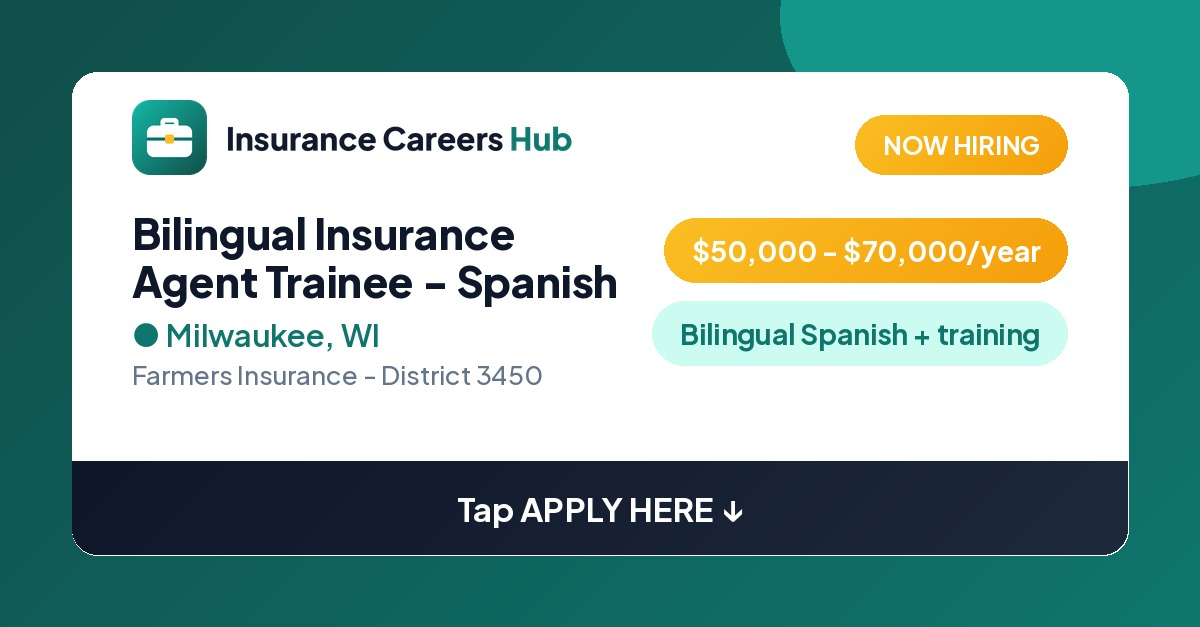
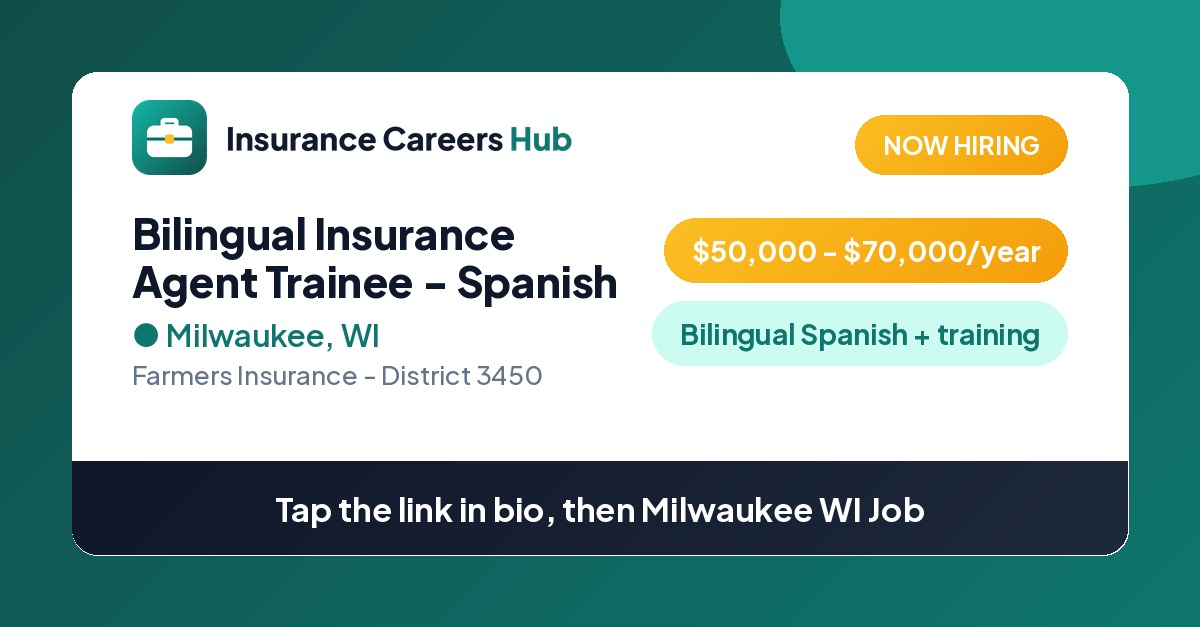
ICH link-in-bio + job cards 2026-11-09

Changed region(s): [[0.2158, 0.7879, 0.7708, 0.8485]]

diff --git a/j/round-rock-tx/index.html b/j/round-rock-tx/index.html
@@ -1,0 +1,48 @@
+<!doctype html>
+<html lang="en"><head>
+<meta charset="utf-8">
+<meta name="viewport" content="width=device-width,initial-scale=1">
+<title>Insurance Sales Representative in Round Rock, TX · Apply</title>
+<meta name="description" content="Rick Villarreal - State Farm Agency is hiring. Pay posted: $60,000 - $100,000/year. Tap APPLY HERE to open the application.">
+<meta name="robots" content="noindex">
+<meta property="og:type" content="website">
+<meta property="og:title" content="Insurance Sales Representative in Round Rock, TX">
+<meta property="og:description" content="Rick Villarreal - State Farm Agency is hiring. Pay posted: $60,000 - $100,000/year. Tap APPLY HERE to open the application.">
+<meta property="og:image" content="https://insurancecareershub.com/assets/jobs/round-rock-tx.jpg">
+<meta property="og:image:width" content="1200">
+<meta property="og:image:height" content="627">
+<meta property="og:url" content="https://insurancecareershub.com/j/round-rock-tx/">
+<meta property="og:site_name" content="Insurance Careers Hub">
+<meta name="twitter:card" content="summary_large_image">
+<meta name="twitter:title" content="Insurance Sales Representative in Round Rock, TX">
+<meta name="twitter:description" content="Rick Villarreal - State Farm Agency is hiring. Pay posted: $60,000 - $100,000/year. Tap APPLY HERE to open the application.">
+<meta name="twitter:image" content="https://insurancecareershub.com/assets/jobs/round-rock-tx.jpg">
+<link rel="canonical" href="https://insurancecareershub.com/j/round-rock-tx/">
+<meta http-equiv="refresh" content="1;url=https://staffmyagency.com/Main/ApplyForJob/KE_e1ueq_Z4=/NaNqf00X-G4=?utm_source=ich_facebook&amp;utm_campaign=jobpromo&amp;utm_medium=link_card">
+<link rel="icon" href="/favicon.ico">
+<meta name="theme-color" content="#0F766E">
+<link href="https://fonts.googleapis.com/css2?family=Plus+Jakarta+Sans:wght@600;700;800&display=swap" rel="stylesheet">
+<style>
+:root{--teal:#0F766E;--teal-d:#114E4A;--navy:#0F172A;--bg:#F0FDFA}
+*{box-sizing:border-box}body{margin:0;font-family:'Plus Jakarta Sans',system-ui,sans-serif;background:var(--bg);color:var(--navy);min-height:100vh;display:flex;align-items:center;justify-content:center}
+.card{max-width:440px;width:100%;margin:24px;background:#fff;border-radius:18px;padding:28px 22px;text-align:center;box-shadow:0 10px 30px rgba(15,118,110,.15)}
+.logo{height:36px;width:auto;margin-bottom:14px}
+h1{font-size:22px;font-weight:800;margin:0 0 6px;line-height:1.25}
+.loc{color:var(--teal);font-weight:700;margin:0 0 10px}
+.desc{color:#64748B;font-size:14px;line-height:1.5;margin:0 0 20px}
+a.apply{display:block;background:linear-gradient(135deg,var(--teal-d),var(--teal));color:#fff;text-decoration:none;font-weight:800;font-size:18px;padding:16px 20px;border-radius:14px;box-shadow:0 6px 18px rgba(15,118,110,.3)}
+.hint{margin-top:14px;font-size:12px;color:#94A3B8}
+</style>
+<script>
+setTimeout(function(){ window.location.replace("https://staffmyagency.com/Main/ApplyForJob/KE_e1ueq_Z4=/NaNqf00X-G4=?utm_source=ich_facebook&utm_campaign=jobpromo&utm_medium=link_card"); }, 1000);
+</script>
+</head><body>
+<div class="card">
+  <img class="logo" src="/assets/ich-logo.png" alt="Insurance Careers Hub" width="200" height="36">
+  <h1>Insurance Sales Representative</h1>
+  <p class="loc">Round Rock, TX</p>
+  <p class="desc">Rick Villarreal - State Farm Agency is hiring. Pay posted: $60,000 - $100,000/year. Tap APPLY HERE to open the application.</p>
+  <a class="apply" href="https://staffmyagency.com/Main/ApplyForJob/KE_e1ueq_Z4=/NaNqf00X-G4=?utm_source=ich_facebook&amp;utm_campaign=jobpromo&amp;utm_medium=link_card" id="apply">👉 APPLY HERE</a>
+  <p class="hint">Taking you to the application…</p>
+</div>
+</body></html>

diff --git a/ig/index.html b/ig/index.html
@@ -91,7 +91,7 @@ footer{text-align:center;margin-top:24px;font-size:12px;color:var(--gray)}
 <a class="job" href="https://staffmyagency.com/Main/ApplyForJob/nByxnibpX04=/NaNqf00X-G4=?utm_source=ich_instagram&amp;utm_campaign=jobpromo&amp;utm_medium=bio_link" target="_blank" rel="noopener"><span class="lab">Nashville TN Sales</span><span class="go">Apply →</span></a>
 <a class="job" href="https://staffmyagency.com/Main/ApplyForJob/wci2lWqbjPk=/NaNqf00X-G4=?utm_source=ich_instagram&amp;utm_campaign=jobpromo&amp;utm_medium=bio_link" target="_blank" rel="noopener"><span class="lab">Cottonwood Heights UT Role</span><span class="go">Apply →</span></a>
 <a class="job" href="https://staffmyagency.com/Main/ApplyForJob/Fn_nKdjLIz4=/NaNqf00X-G4=?utm_source=ich_instagram&amp;utm_campaign=jobpromo&amp;utm_medium=bio_link" target="_blank" rel="noopener"><span class="lab">Park Ridge IL Role</span><span class="go">Apply →</span></a></nav>
-<p class="meta">Updated 2026-11-09 11:01 AM CT · America/Chicago<br>
+<p class="meta">Updated 2026-11-09 11:11 AM CT · America/Chicago<br>
 <a href="https://insurancecareershub.com/">Browse all insurance jobs</a></p>
 <footer>Applications go to Staff My Agency. Insurance Careers Hub is not the employer.</footer>
 </div></body></html>
